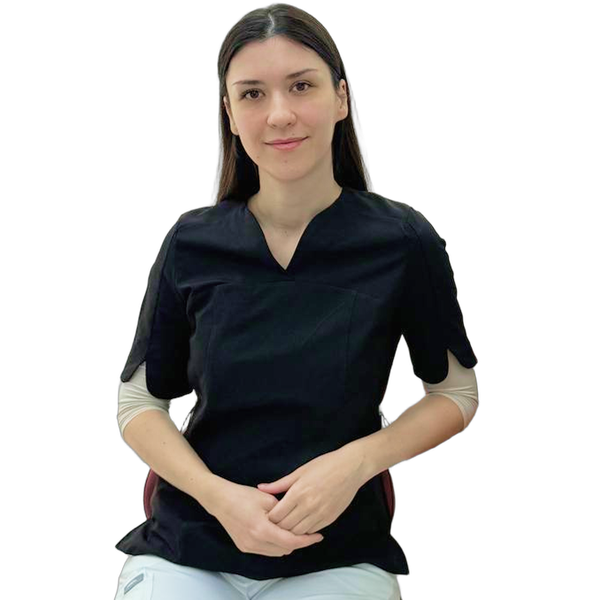
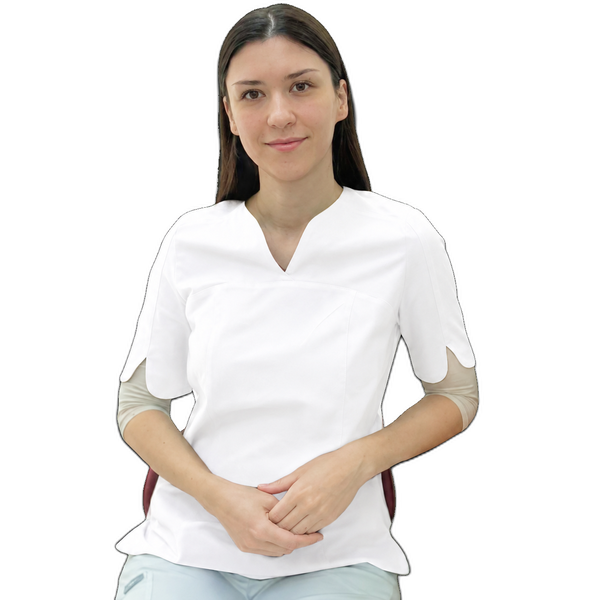
Добавить фото Рустамова Эмиля, обновить фото Смоляковой
- /assets/img/doctors/rustamov-emil.png + thumb (HEIC из Drive, кроп
  голова+плечи через детекцию лица, фон убран rembg, белая подложка)
- Заменил placeholder на rustamov-emil-thumb.png в index.html и
  doctors/index.html; в doctors/emil-mamedov.html обновил основное
  фото и JSON-LD image
- /assets/img/doctors/smolyakova.png + thumb — новое фото в белой
  форме (PNG из Drive, бордовый фон убран, белая подложка)

diff --git a/doctors/emil-mamedov.html b/doctors/emil-mamedov.html
@@ -9,7 +9,7 @@
 <link rel="canonical" href="https://angel-denta.ru/doctors/emil-mamedov.html">
 <meta name="theme-color" content="#1e5fb3">
 <link rel="stylesheet" href="../assets/css/styles.css">
-<script type="application/ld+json">{"@context": "https://schema.org", "@type": "BreadcrumbList", "itemListElement": [{"@type": "ListItem", "position": 1, "name": "Главная", "item": "https://angel-denta.ru/"}, {"@type": "ListItem", "position": 2, "name": "Врачи", "item": "https://angel-denta.ru/doctors/"}, {"@type": "ListItem", "position": 3, "name": "Рустамов Эмиль Дилгамович", "item": "https://angel-denta.ru/doctors/emil-mamedov.html"}]}</script><script type="application/ld+json">{"@context": "https://schema.org", "@type": "Person", "name": "Рустамов Эмиль Дилгамович", "jobTitle": "Стоматолог-ортопед", "worksFor": {"@type": "Dentist", "name": "Ангел-Дент", "url": "https://angel-denta.ru/"}, "image": "https://angel-denta.ru/assets/img/doctors/placeholder.svg"}</script>
+<script type="application/ld+json">{"@context": "https://schema.org", "@type": "BreadcrumbList", "itemListElement": [{"@type": "ListItem", "position": 1, "name": "Главная", "item": "https://angel-denta.ru/"}, {"@type": "ListItem", "position": 2, "name": "Врачи", "item": "https://angel-denta.ru/doctors/"}, {"@type": "ListItem", "position": 3, "name": "Рустамов Эмиль Дилгамович", "item": "https://angel-denta.ru/doctors/emil-mamedov.html"}]}</script><script type="application/ld+json">{"@context": "https://schema.org", "@type": "Person", "name": "Рустамов Эмиль Дилгамович", "jobTitle": "Стоматолог-ортопед", "worksFor": {"@type": "Dentist", "name": "Ангел-Дент", "url": "https://angel-denta.ru/"}, "image": "https://angel-denta.ru/assets/img/doctors/rustamov-emil.png"}</script>
 </head>
 <body>
 
@@ -47,7 +47,7 @@
 
 <section class="page-hero"><div class="container">
   <div style="display:grid;grid-template-columns:300px 1fr;gap:30px;align-items:center" class="contact-grid">
-    <div class="doctor-card__photo" style="border-radius:14px;overflow:hidden;max-width:300px"><!-- TODO: замените src на реальное фото врача из /assets/img/doctors/rustamov-emil.jpg --><img src="../assets/img/doctors/placeholder.svg" alt="Рустамов Эмиль Дилгамович — стоматолог-ортопед клиники Ангел-Дент"></div>
+    <div class="doctor-card__photo" style="border-radius:14px;overflow:hidden;max-width:300px"><img src="../assets/img/doctors/rustamov-emil.png" alt="Рустамов Эмиль Дилгамович — стоматолог-ортопед клиники Ангел-Дент"></div>
     <div>
       <span class="eyebrow">Стоматолог-ортопед</span>
       <h1>Рустамов Эмиль Дилгамович</h1>

diff --git a/index.html b/index.html
@@ -335,8 +335,8 @@
       </a>
 
       <a href="doctors/emil-mamedov.html" class="doctor-card">
-        <div class="doctor-card__photo doctor-card__photo--placeholder">
-          <img src="assets/img/doctors/placeholder.svg" alt="Рустамов Эмиль Дилгамович — стоматолог-ортопед">
+        <div class="doctor-card__photo">
+          <img src="assets/img/doctors/rustamov-emil-thumb.png" alt="Рустамов Эмиль Дилгамович — стоматолог-ортопед">
         </div>
         <div class="doctor-card__body">
           <div class="doctor-card__name">Рустамов Эмиль Дилгамович</div>

diff --git a/doctors/index.html b/doctors/index.html
@@ -57,7 +57,7 @@
       <div class="doctor-card__photo"><img src="../assets/img/doctors/rustam-thumb.png" alt="Рустамли Руслан Рустамович — хирург-имплантолог"></div>
       <div class="doctor-card__body"><div class="doctor-card__name">Рустамли Руслан Рустамович</div><div class="doctor-card__role">Стоматолог-хирург · имплантолог</div><div class="doctor-card__exp">8 лет · удаление, имплантация</div></div>
     </a><a href="../doctors/emil-mamedov.html" class="doctor-card">
-      <div class="doctor-card__photo doctor-card__photo--placeholder"><!-- TODO: замените src на фото /assets/img/doctors/rustamov-emil.jpg --><img src="../assets/img/doctors/placeholder.svg" alt="Рустамов Эмиль Дилгамович — стоматолог-ортопед"></div>
+      <div class="doctor-card__photo"><img src="../assets/img/doctors/rustamov-emil-thumb.png" alt="Рустамов Эмиль Дилгамович — стоматолог-ортопед"></div>
       <div class="doctor-card__body"><div class="doctor-card__name">Рустамов Эмиль Дилгамович</div><div class="doctor-card__role">Стоматолог-ортопед</div><div class="doctor-card__exp">Протезирование, коронки, виниры · 3Shape Trios</div></div>
     </a><a href="../doctors/smolyakova.html" class="doctor-card">
       <div class="doctor-card__photo"><img src="../assets/img/doctors/smolyakova-thumb.png" alt="Смолякова Радана Сергеевна — стоматолог-терапевт"></div>